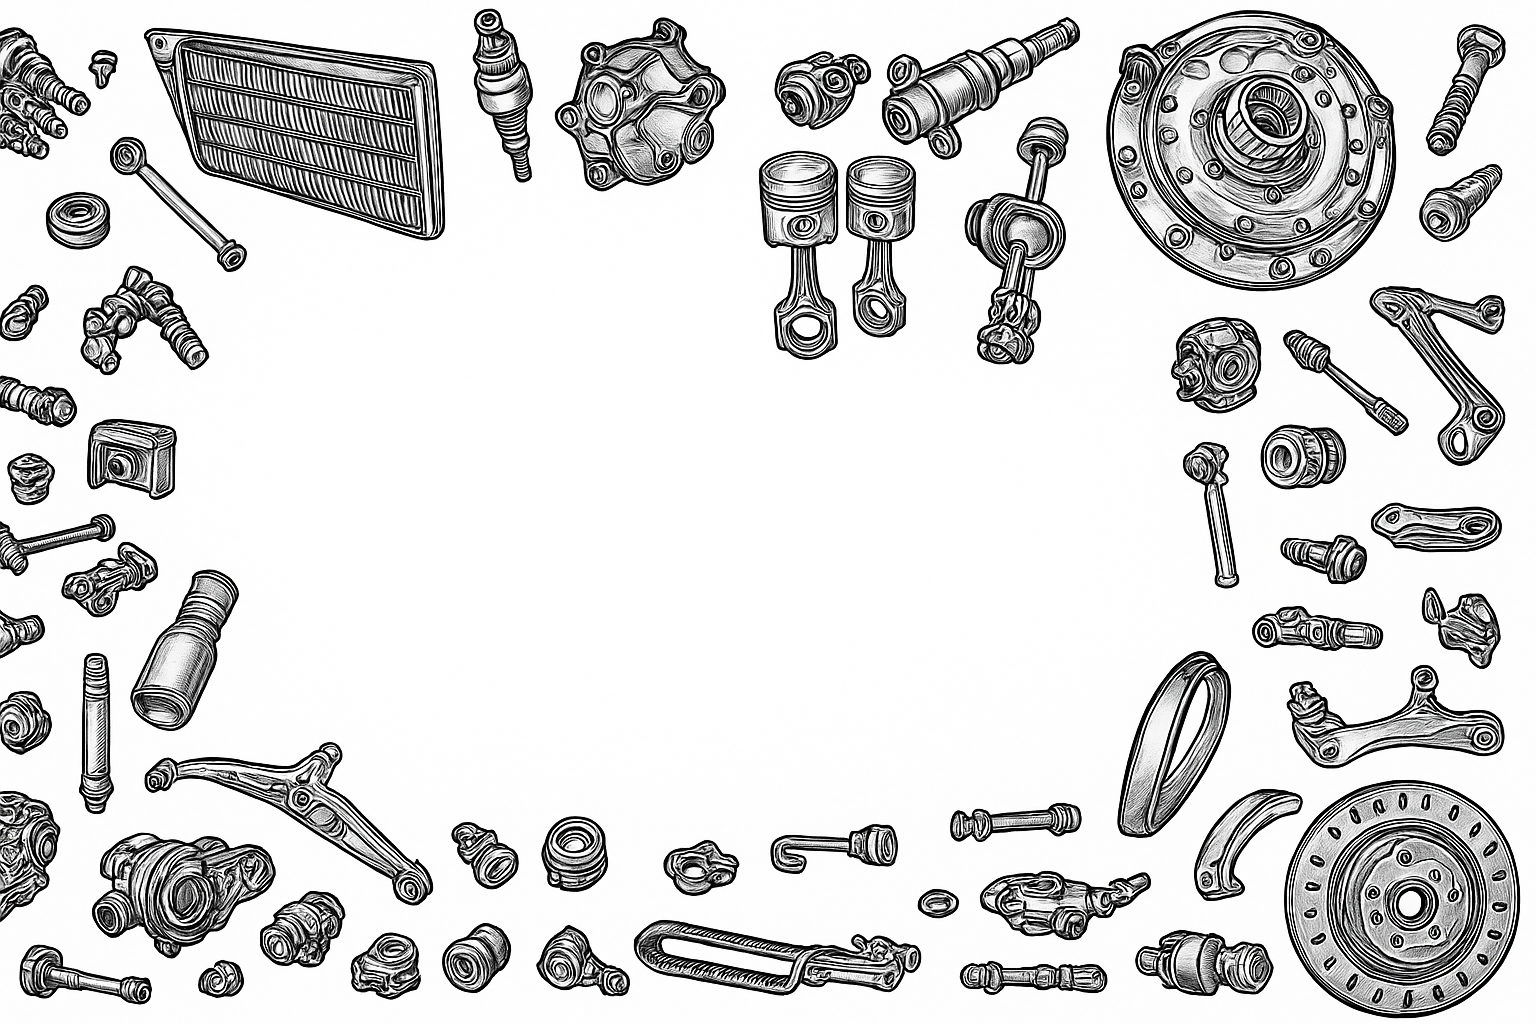
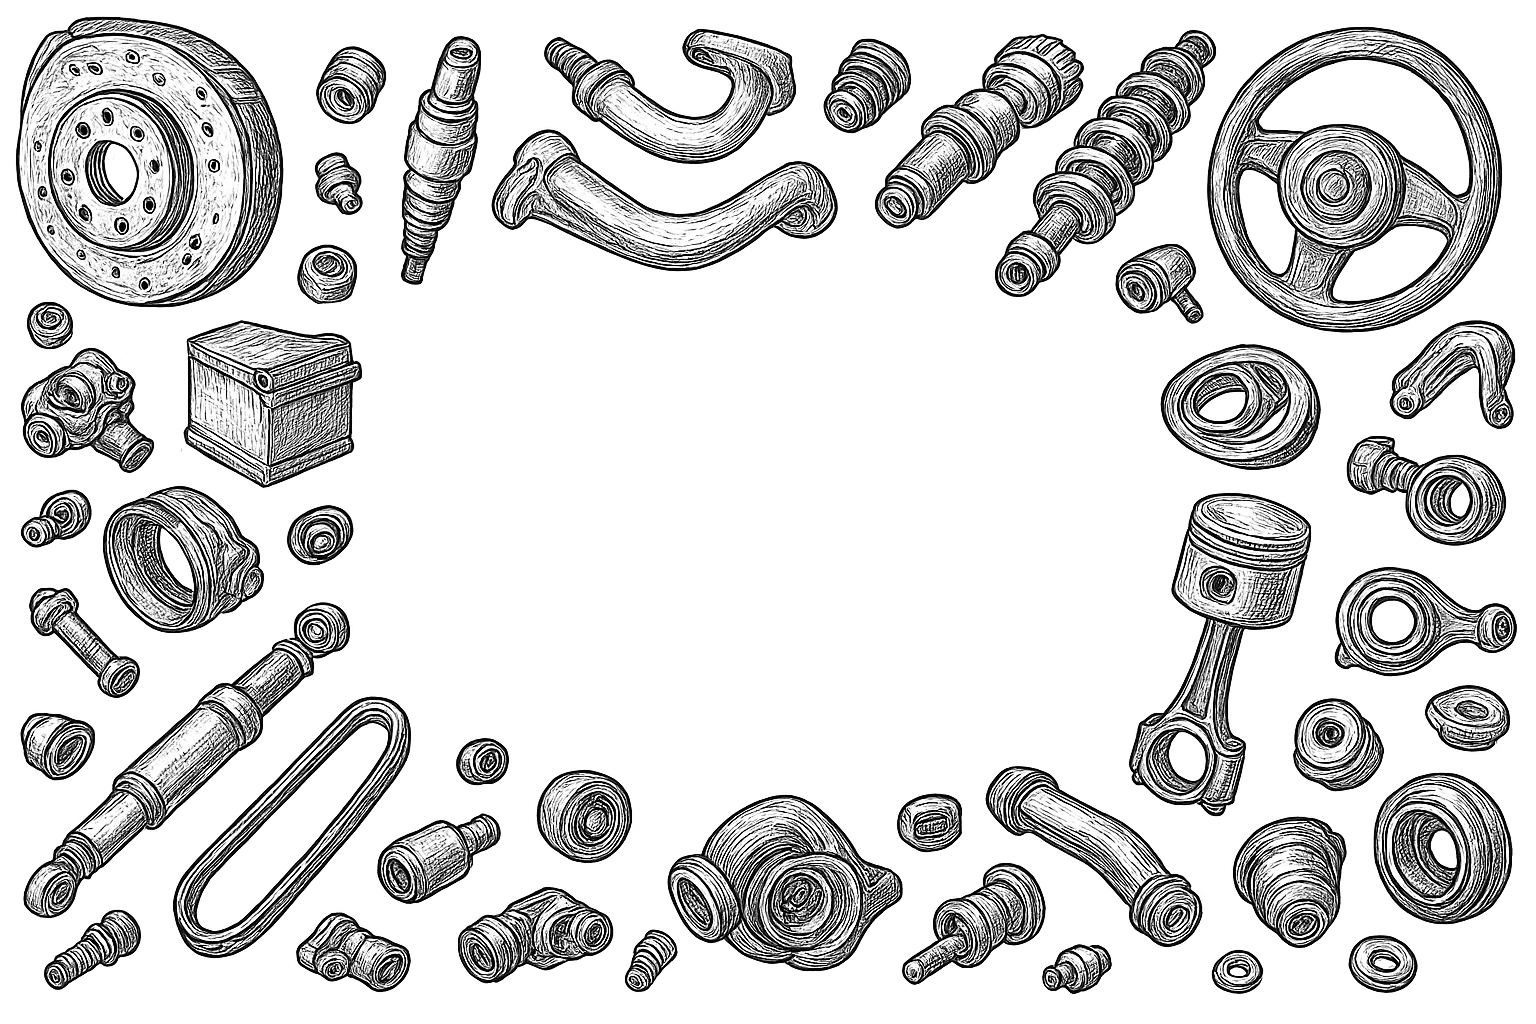
fundoo novo

diff --git a/index.html b/index.html
@@ -18,7 +18,7 @@
 
 
     h1 {
-      color: #00796b;
+      color: #f000a0;
     }
 
     .input-group, .select-group {
@@ -36,13 +36,13 @@
     input, select {
       padding: 8px;
       border-radius: 5px;
-      border: 1px solid #00796b;
+      border: 1px solid #f000a0;
       font-size: 1rem;
       min-width: 180px;
     }
 
     button {
-      background-color: #00796b;
+      background-color: #f000a0;
       color: white;
       border: none;
       padding: 10px 25px;
